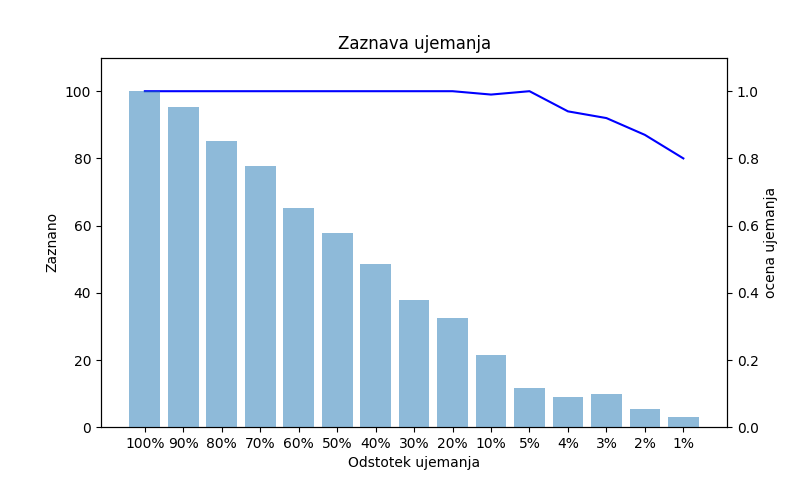
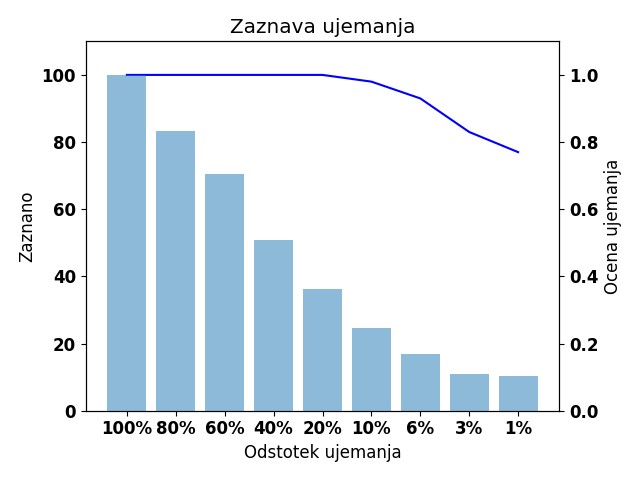
Popravljeni grafi

Changed region(s): [[0.0312, 0.0312, 0.9688, 1.0]]

diff --git a/code/testing.py b/code/testing.py
@@ -50,14 +50,14 @@ def f_score(corpus):
         while fileA == fileB:
             fileB = file_names[random.randint(0, len(file_names) - 1)]
         if bool(random.getrandbits(1)):
-            generate_test_files(random.randint(1, 100) / 100, fileA, fileB, corpus + "tmp")
-            if compare_files(corpus, fileB, corpus + "tmp") >= 0.01:
+            generate_test_files(random.randint(1, 100) / 100, fileA, fileB, corpus + "/tmp")
+            if compare_files(corpus, fileB, corpus + "/tmp") >= 0.01:
                 tp+=1
             else:
                 fn+=1
         else:
-            generate_test_files(0, fileA, fileB, corpus + "tmp")
-            if compare_files(corpus, fileB, corpus + "tmp") >= 0.01:
+            generate_test_files(0, fileA, fileB, corpus + "/tmp")
+            if compare_files(corpus, fileB, corpus + "/tmp") >= 0.01:
                 fp += 1
             else:
                 tn += 1
@@ -67,7 +67,7 @@ def f_score(corpus):
     print("precision:", precision)
     print("recall:", recall)
     print("f-score:", fscore)
-    os.remove(corpus + "tmp")
+    os.remove(corpus + "/tmp")
 
 def standard_test(corpus):
     file_names = [f for f in glob.glob(corpus + "/**", recursive=True) if not os.path.isdir(f)]
@@ -75,7 +75,7 @@ def standard_test(corpus):
     score = []
     similarities = []
     tries = 100
-    steps = [100,90,80,70,60,50,40,30,20,10,5,4,3,2,1]
+    steps = [100,80,60,40,20,10,6,3,1]
     # steps = range(100, 0, -1)
     for p in steps:
         print("Testing", p, "%")
@@ -86,8 +86,8 @@ def standard_test(corpus):
             fileB = file_names[random.randint(0, len(file_names) - 1)]
             while fileA == fileB:
                 fileB = file_names[random.randint(0, len(file_names) - 1)]
-            generate_test_files(p / 100, fileA, fileB, corpus + "tmp")
-            similarity = compare_files(corpus, fileB, corpus + "tmp")
+            generate_test_files(p / 100, fileA, fileB, corpus + "/tmp")
+            similarity = compare_files(corpus, fileB, corpus + "/tmp")
             avg_sim += similarity
             if similarity >= 0.01:
                 detections += 1
@@ -95,9 +95,13 @@ def standard_test(corpus):
         percents.append(str(p) + "%")
         score.append(100 * detections / tries)
         similarities.append(avg_sim)
-    os.remove(corpus + "tmp")
+    os.remove(corpus + "/tmp")
 
     # drawing a plot
+    font = {'family': 'DejaVu Sans',
+            'weight': 'bold',
+            'size': 12}
+    plt.rc('font', **font)
     fig, ax1 = plt.subplots()
     ax1.plot(percents, score, 'b-')
     ax1.set_xlabel("Odstotek ujemanja")
@@ -115,5 +119,5 @@ def standard_test(corpus):
 
 
 if __name__ == '__main__':
-    # standard_test("../corpus")
-    f_score("../corpus")
+    standard_test("../corpus")
+    # f_score("../corpus")

diff --git a/report/sigproc-sp.tex b/report/sigproc-sp.tex
@@ -318,7 +318,7 @@ Tako kot v originalnem članku, smo se tudi mi odločili me-riti vrednost F-scor
 \section{Rezultati}
 Testirali smo več različnih funkcij za izračun uteži delov datotek.
 
-Najprej si oglejmo delovanje funkcije, ki jo predlagajo avtorji članka \cite{fbhash} in je bila prva opisana v poglavju \ref{utezivclanku}. Rezultati so predstavljeni na sliki \ref{fig:clanekUtezi}. Algoritem s to formulo za uteži je dosegel F-score 94\%, kar se ujema z vrednostjo, ki so jo dobili v članku.
+Najprej si oglejmo delovanje funkcije, ki jo predlagajo avtorji članka \cite{fbhash} in je bila prva opisana v poglavju \ref{utezivclanku}. Rezultati so predstavljeni na sliki \ref{fig:clanekUtezi}. V vseh nadaljnih grafih stolpci predstavljajo povprečno ujemanje, ki ga je algoritem zaznal glede na dejansko ujemanje med datotekama, črta pa ponazarja delež dokumentov s posameznim ujemanjem, pri katerem je algoritem ujemanje sploh prepoznal. Algoritem s to formulo za uteži je dosegel F-score 94\%, kar se ujema z vrednostjo, ki so jo dobili v članku.
 \begin{figure}[htb]
 \begin{center}
 \includegraphics[width=1\columnwidth]{njihov_majhen.png}
@@ -335,7 +335,7 @@ Ker se nam formula za izračun uteži ne zdi smiselna, smo jo nekoliko spremenil
 \begin{center}
 \includegraphics[width=1\columnwidth]{ch_tfidf_weight_majhna.png}
 \end{center}
-\caption{\small{Rezultati testiranja prilagojenimi utežmi.}}
+\caption{\small{Rezultati testiranja s prilagojenimi utežmi.}}
 \label{fig:ch_tfidf}
 \end{figure}
 

diff --git a/code/fbhash.py b/code/fbhash.py
@@ -112,7 +112,7 @@ class DocParams:
         self.calculate_weights = ch_tfidf_weight_clanek
 
 
-document_weight = doc_log_weigh
+document_weight = doc_norm_weigh
 
 if __name__ == '__main__':
     create_database(sys.argv[1])

diff --git a/TODO.md b/TODO.md
@@ -3,7 +3,7 @@
 - [ ] dodati sliko/boljši opis Bloomove funkcije
 - [ ] preimenovati izraze da bojo konsistentni (npr. ocena dela datoteke = zgostitvena ocena = ocena pomembnosti?)
 - [x] ključne besede v SLO
-- [ ] graf večji tekst na oseh
+- [x] graf večji tekst na oseh
 - [ ] opis strukture članka brisat? (js bi pustila + 1)
 - [x] link do repota? (nardim repo javen? Lahko samo mogoce prej popravimo par stvari)
 - [ ] članek --> raziskava/delo/avtorji v [x] navajajo
@@ -13,7 +13,7 @@
 	n: veliko praštevilo, večje od chf_ch^D;  <-- tle smo napisali da je n število vseh datotek ...
 	chf_ch^D < n (število pojavitev zloga ch v datoteki h
 	sledi: 0 < (chf__ch^D)/n < 1 => 0 < log_10((chf__ch^D)/n) < 1 => 0 < 1 - log_10((chf__ch^D)/n) < 1
-- [ ] **(mogoce je ze ali pa je misljeno v nasih ugotovitvah)** bolje opisat slike (kaj so stolpci in kaj je črta)
+- [x] **(mogoce je ze ali pa je misljeno v nasih ugotovitvah)** bolje opisat slike (kaj so stolpci in kaj je črta)
 - [ ] **(mogoce popravljeno)** Uteži bi lahko raziskali bolje, saj se v članku pojavi napaka pri računanju uteži, ki jo opišejo avtorji algoritma FbHash.
 - [ ] Vredno bi bilo preiskusiti tudi z naključni šum, saj pokažejo, da pomankanje uteži prinese slabše rezultate, medtem ko uporaba različnih uteži ne prikaže bistvenih razlik pri rezultatih.
 - [x] pobrisat naše IDje -- zamenjat z imenom fakultete
